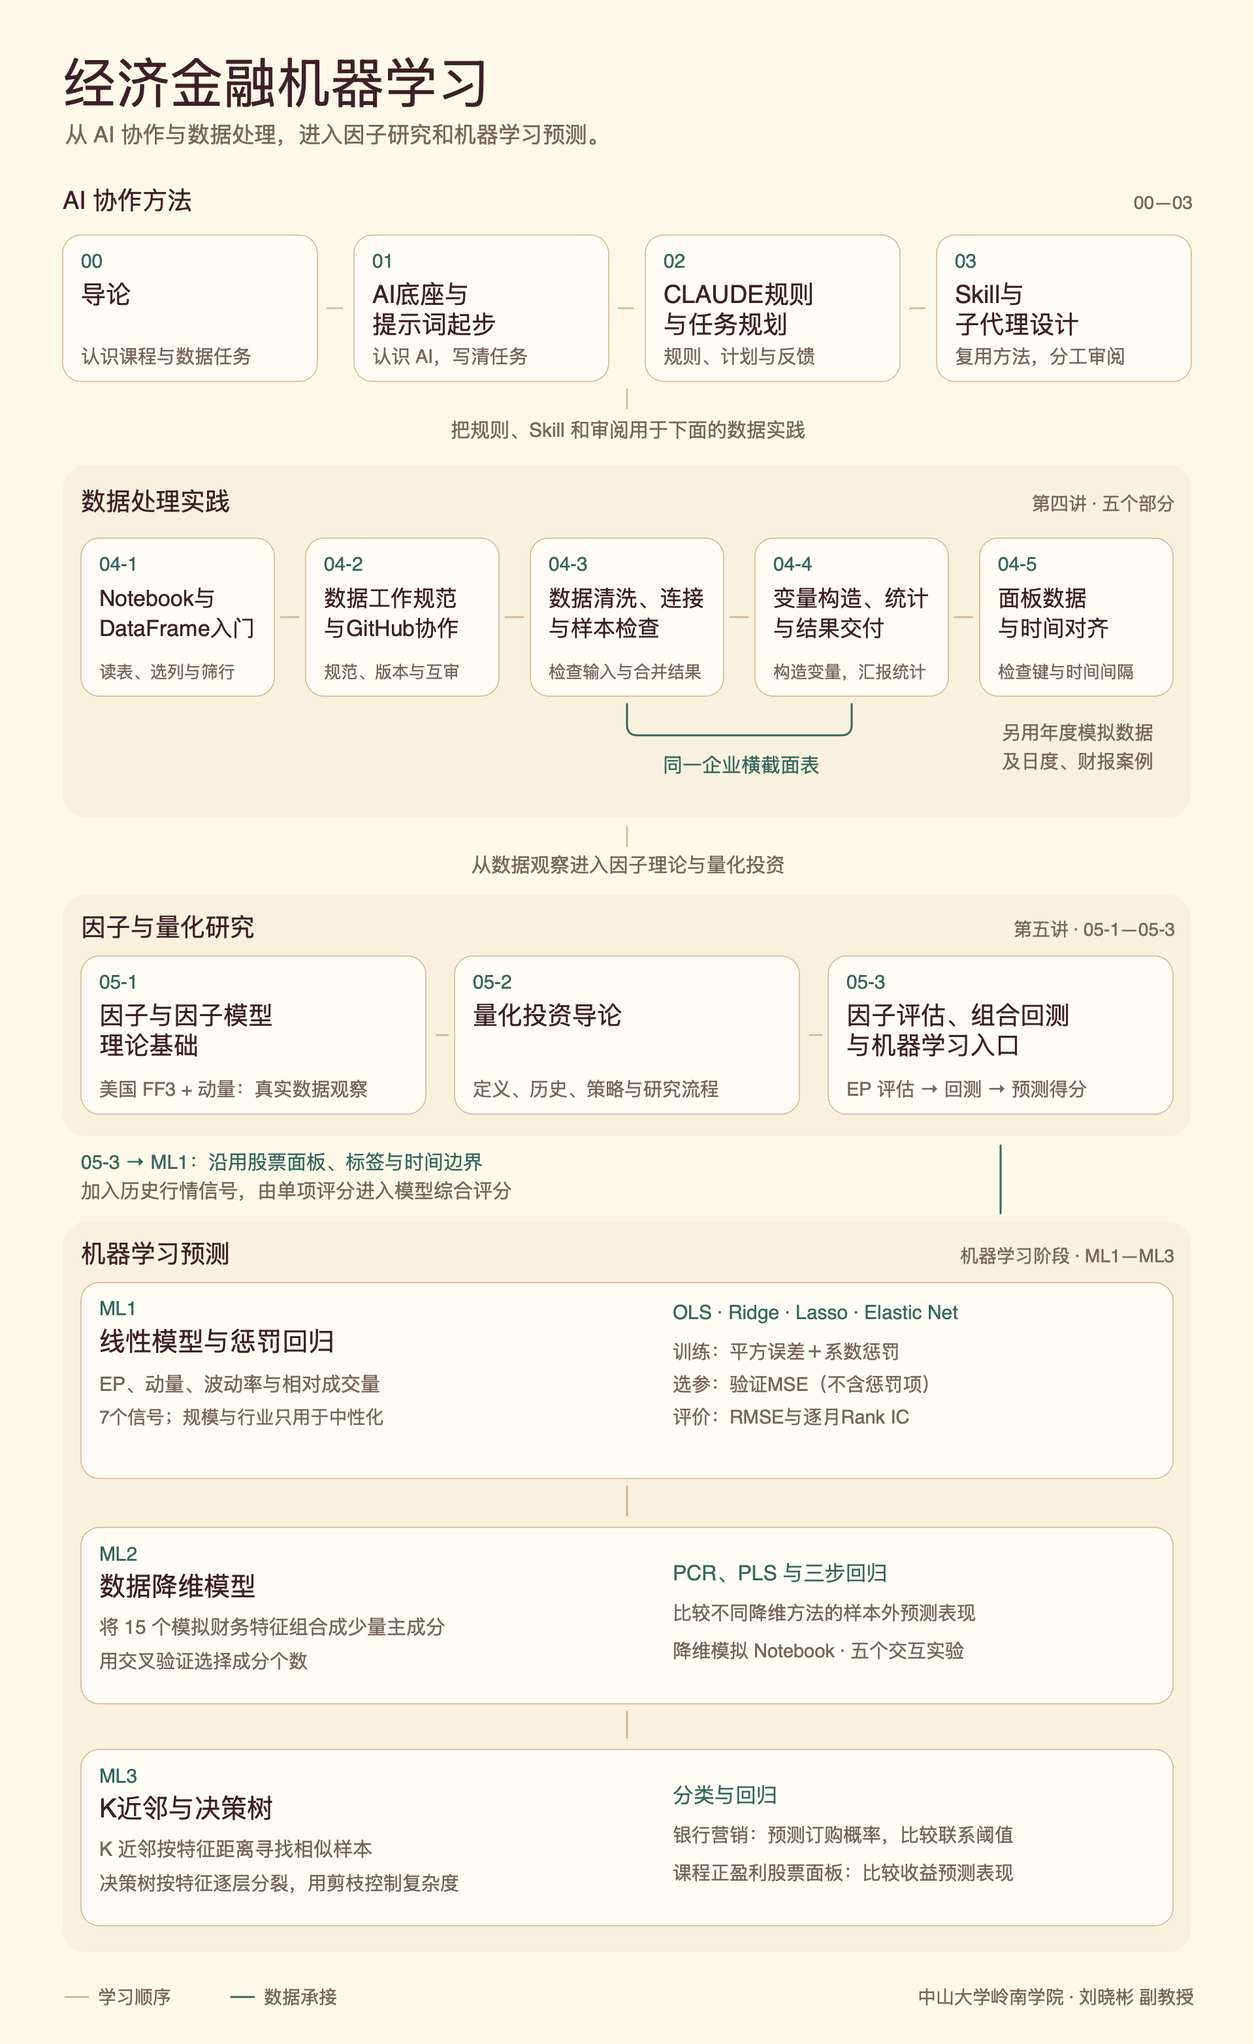
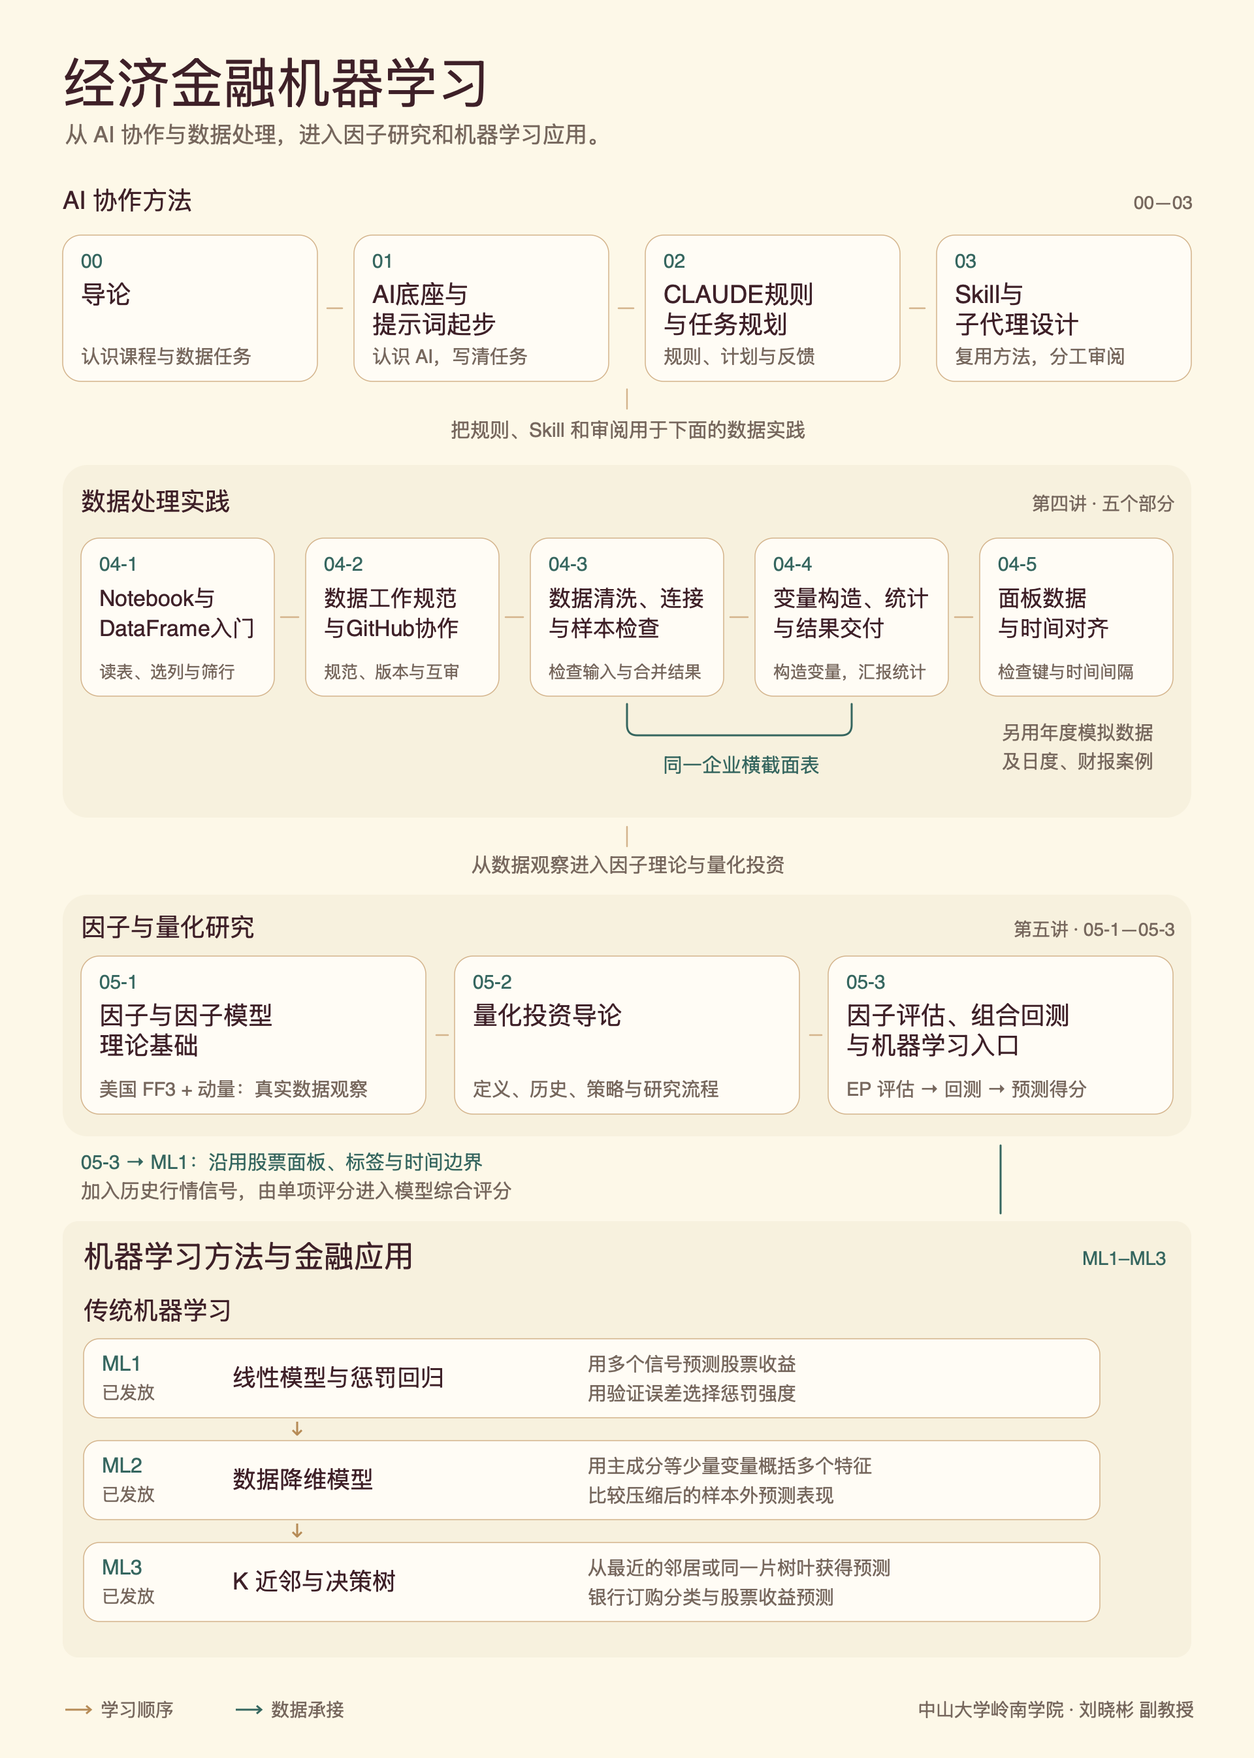
📝 docs(course): show published topics through ML3 on the course map

diff --git a/index.html b/index.html
@@ -1,1 +1,1 @@
-<!doctype html><html lang="zh-CN"><head><meta charset="utf-8"><meta name="viewport" content="width=device-width,initial-scale=1"><title>经济金融机器学习 · 课件</title><style>body{margin:0;background:#FDF8E8;color:#3E2028;font:20px/1.8 "PingFang SC","Microsoft YaHei",system-ui,sans-serif}main{max-width:1000px;margin:auto;padding:36px 28px 64px}h1{font:38px/1.35 "Songti SC",serif}h2{font-size:27px;margin-top:32px}a{color:#35665F;text-underline-offset:4px;overflow-wrap:anywhere}section,footer{border-top:1px solid #D4B48C;padding:18px 0}li{margin:12px 0}small{color:#76675D}figure{margin:24px 0}figure img{display:block;width:100%;height:auto}figcaption{font-size:16px;color:#76675D}@media(max-width:600px){h1{font-size:30px}main{padding:24px 20px 40px}}</style></head><body><main><h1>经济金融机器学习</h1><p>中山大学岭南学院 · 刘晓彬 副教授</p><figure><a href="assets/course-map-ml3-b09519e4.png"><img src="assets/course-map-ml3-b09519e4.png" alt="课件关系图：15 份课件，机器学习部分从线性模型、数据降维延伸到 K 近邻与决策树"></a><figcaption>ML1 承接第五讲的股票面板，ML2 用模拟财务特征比较降维方法。ML3 用银行营销记录讲分类，用课程股票面板讲收益预测。金色箭头表示学习顺序，青绿连线表示数据承接。点击图片查看大图。</figcaption></figure><section><h2><a href="00-导论.html">00-导论</a></h2><small>62 页</small></section><section><h2><a href="01-AI底座与提示词起步.html">01-AI底座与提示词起步</a></h2><small>102 页</small></section><section><h2><a href="02-CLAUDE规则与任务规划.html">02-CLAUDE规则与任务规划</a></h2><small>68 页</small></section><section><h2><a href="03-Skill与子代理设计.html">03-Skill与子代理设计</a></h2><small>47 页</small></section><section><h2><a href="04-1-Notebook与DataFrame入门.html">04-1-Notebook与DataFrame入门</a></h2><small>35 页</small></section><section><h2><a href="04-2-数据工作规范与GitHub协作.html">04-2-数据工作规范与GitHub协作</a></h2><small>38 页</small></section><section><h2><a href="04-3-数据清洗连接与样本检查.html">04-3-数据清洗连接与样本检查</a></h2><small>43 页</small></section><section><h2><a href="04-4-变量构造统计与结果交付.html">04-4-变量构造统计与结果交付</a></h2><small>36 页</small></section><section><h2><a href="04-5-面板数据与时间对齐.html">04-5-面板数据与时间对齐</a></h2><small>33 页</small></section><section><h2><a href="05-1-因子与因子模型理论基础.html">05-1-因子与因子模型理论基础</a></h2><small>96 页</small></section><section><h2><a href="05-2-量化投资导论.html">05-2-量化投资导论</a></h2><small>103 页</small></section><section><h2><a href="05-3-因子评估组合回测与机器学习入口.html">05-3-因子评估、组合回测与机器学习入口</a></h2><small>156 页</small><p>以EP为主案例，从因子评估、组合回测衔接机器学习预测得分；配套Notebook与代码见下方不含数据包。</p></section><section><h2><a href="ML1-线性模型与惩罚回归.html">ML1-线性模型与惩罚回归</a></h2><small>70 页</small><p>从EP评分到7信号综合预测，比较OLS与三类惩罚回归，区分训练损失、验证MSE和Rank IC。</p></section><section><h2><a href="ML2-数据降维模型.html">ML2-数据降维模型</a></h2><small>52 页</small><p>通过几何投影和财务特征模拟，比较不同降维方法的收益预测表现。</p></section><section><h2><a href="ML3-K近邻与决策树.html">ML3-K近邻与决策树</a></h2><small>76 页</small><p>从近邻和树叶中的样本得到预测，再用银行营销案例选择联系名单，用股票案例比较收益预测表现。</p></section><section id="materials"><h2>配套材料</h2><div id="materials-04-3"><h3>04-3 数据清洗、连接与样本检查</h3><p><a href="04-3-数据清洗连接与样本检查-配套材料-含参考答案.zip" download>下载学生材料 ZIP（含参考答案）</a></p><p>解压后打开“04-3-参考答案”文件夹，按 README 选择课程内核，运行“04-3-清洗与连接.ipynb”。数据字典、处理原则、课堂任务和交付说明均在包内；Notebook末尾附参考解答。</p></div><div id="materials-04-4"><h3>04-4 变量构造、统计与结果交付</h3><p><a href="04-4-变量构造统计与结果交付-配套材料-含参考答案.zip" download>下载精简材料 ZIP（含参考答案）</a> · <a href="04-4-变量构造统计与结果交付-交互演示.html">打开统计交互网页</a></p><p>解压后从 README 开始，顺序运行 Notebook；统计网页可离线使用。</p></div><div id="materials-04-5"><h3>04-5 面板数据与时间对齐</h3><p><a href="04-5-面板数据与时间对齐-配套材料-含参考答案.zip" download>下载配套包（含参考答案）</a> · <a href="04-5-面板数据与时间对齐-交互演示.html">面板交互网页</a></p><p>解压后按README运行Notebook；网页可离线打开。</p></div><div id="materials-05-1"><h3>05-1 因子与因子模型理论基础</h3><p><a href="05-1-因子与因子模型理论基础-配套材料.zip" download>下载四因子观察学生材料 ZIP</a></p><p>解压后打开“05-1-课堂材料”，按 README 运行“05-1-四因子观察.ipynb”。包内提供美国 FF3 与动量月度数据（1927-01—2026-08）、官方原始文件、数据字典和合并脚本，用于观察时间轨迹、分布与相关性。</p></div><div id="materials-05-2"><h3>05-2 量化投资导论</h3><p><a href="05-2-量化投资导论-配套材料-不含数据.zip" download>下载配套材料 ZIP（不含数据，约1.18 MB）</a></p><p>解压后打开“05-2-量化投资导论”，按 README 将教师另行提供的六张精简数据表（约54.7 MB）放入 data/offline/，再运行 notebooks/ch01_market_overview.ipynb。包内保留原Notebook、工具代码、图表与数据说明。</p></div><div id="materials-05-3"><h3>05-3 因子评估、组合回测与机器学习入口</h3><p><a href="05-3-因子评估组合回测与机器学习入口-配套材料-不含数据.zip" download>下载配套材料 ZIP（不含数据，约103 KB）</a> · <a href="05-3-因子评估组合回测与机器学习入口-交互演示.html">打开因子评估交互演示</a></p><p>解压后打开“05-03-课堂材料”，按README合并教师另行提供的数据包，确认输入文件位于 data/offline/，再运行 notebooks/05-03-EP因子评估与回测.ipynb。包内含Notebook、工具代码、示范图表、统计汇总和任务说明，不含原始/月度输入数据与教师答案。</p><p>交互页内嵌统计汇总与教学示例，可离线查看EP覆盖率、中性化、IC/ICIR、衰减和分组回测方法，无需另行加载月度数据包。</p></div><div id="materials-ml1"><h3>ML1 线性模型与惩罚回归</h3><p><a href="ML1-线性模型与惩罚回归-配套材料-不含数据.zip" download>下载配套材料 ZIP（不含数据）</a> · <a href="ML1-线性模型与惩罚回归-交互演示.html">打开交互演示</a></p><p>包内含Notebook、课堂输出、图表、统计汇总与说明。运行前将教师提供的课堂数据包合并到“ML1-课堂材料”，确认 data/ep_ml1_panel.parquet 存在；全量逐股预测在运行后生成。交互页可离线查看机制模拟和有限股票示例。</p></div><div id="materials-ml2"><h3>ML2 数据降维模型</h3><p><a href="ML2-数据降维模型-配套材料.zip" download>下载降维模拟 Notebook 与运行说明</a> · <a href="ML2-数据降维模型-交互演示.html">打开五个交互实验</a></p><p>模拟数据由 Notebook 生成，解压后按 README 从第一个单元顺序运行。</p></div><div id="materials-ml3"><h3>ML3 K 近邻与决策树</h3><p><a href="ML3-K近邻与决策树-配套材料-不含股票面板.zip" download>下载课堂材料（含银行数据）</a> · <a href="ML3-K近邻与决策树-交互演示.html">打开交互演示</a></p><p>解压后从 README 进入 Notebook。运行股票案例时，将教师提供的 ep_ml_panel.parquet 放入 data/。课件和交互演示可直接离线阅读。</p></div><p>05-2《量化投资导论》共 103 页，介绍量化投资的定义、发展历史、策略、A 股市场环境、行业版图、研究流程及案例，配套材料见上方下载入口。署名：刘晓彬（中山大学岭南学院）、曾涛（浙江大学）。其他部分的学生材料由教师另行提供。</p></section><footer>© 2026 刘晓彬 · <a href="许可协议.html">中文许可说明</a> · <a href="LICENSE">LICENSE 全文</a></footer></main></body></html>
+<!doctype html><html lang="zh-CN"><head><meta charset="utf-8"><meta name="viewport" content="width=device-width,initial-scale=1"><title>经济金融机器学习 · 课件</title><style>body{margin:0;background:#FDF8E8;color:#3E2028;font:20px/1.8 "PingFang SC","Microsoft YaHei",system-ui,sans-serif}main{max-width:1000px;margin:auto;padding:36px 28px 64px}h1{font:38px/1.35 "Songti SC",serif}h2{font-size:27px;margin-top:32px}a{color:#35665F;text-underline-offset:4px;overflow-wrap:anywhere}section,footer{border-top:1px solid #D4B48C;padding:18px 0}li{margin:12px 0}small{color:#76675D}figure{margin:24px 0}figure img{display:block;width:100%;height:auto}figcaption{font-size:16px;color:#76675D}@media(max-width:600px){h1{font-size:30px}main{padding:24px 20px 40px}}</style></head><body><main><h1>经济金融机器学习</h1><p>中山大学岭南学院 · 刘晓彬 副教授</p><figure><a href="assets/course-map-ml3-8a44f559.png"><img src="assets/course-map-ml3-8a44f559.png" alt="课程结构图，机器学习部分依次为线性模型与惩罚回归、数据降维模型、K 近邻与决策树"></a><figcaption>机器学习部分已发放 ML1–ML3。 点击图片查看大图。</figcaption></figure><section><h2><a href="00-导论.html">00-导论</a></h2><small>62 页</small></section><section><h2><a href="01-AI底座与提示词起步.html">01-AI底座与提示词起步</a></h2><small>102 页</small></section><section><h2><a href="02-CLAUDE规则与任务规划.html">02-CLAUDE规则与任务规划</a></h2><small>68 页</small></section><section><h2><a href="03-Skill与子代理设计.html">03-Skill与子代理设计</a></h2><small>47 页</small></section><section><h2><a href="04-1-Notebook与DataFrame入门.html">04-1-Notebook与DataFrame入门</a></h2><small>35 页</small></section><section><h2><a href="04-2-数据工作规范与GitHub协作.html">04-2-数据工作规范与GitHub协作</a></h2><small>38 页</small></section><section><h2><a href="04-3-数据清洗连接与样本检查.html">04-3-数据清洗连接与样本检查</a></h2><small>43 页</small></section><section><h2><a href="04-4-变量构造统计与结果交付.html">04-4-变量构造统计与结果交付</a></h2><small>36 页</small></section><section><h2><a href="04-5-面板数据与时间对齐.html">04-5-面板数据与时间对齐</a></h2><small>33 页</small></section><section><h2><a href="05-1-因子与因子模型理论基础.html">05-1-因子与因子模型理论基础</a></h2><small>96 页</small></section><section><h2><a href="05-2-量化投资导论.html">05-2-量化投资导论</a></h2><small>103 页</small></section><section><h2><a href="05-3-因子评估组合回测与机器学习入口.html">05-3-因子评估、组合回测与机器学习入口</a></h2><small>156 页</small><p>以EP为主案例，从因子评估、组合回测衔接机器学习预测得分；配套Notebook与代码见下方不含数据包。</p></section><section><h2><a href="ML1-线性模型与惩罚回归.html">ML1-线性模型与惩罚回归</a></h2><small>70 页</small><p>从EP评分到7信号综合预测，比较OLS与三类惩罚回归，区分训练损失、验证MSE和Rank IC。</p></section><section><h2><a href="ML2-数据降维模型.html">ML2-数据降维模型</a></h2><small>52 页</small><p>通过几何投影和财务特征模拟，比较不同降维方法的收益预测表现。</p></section><section><h2><a href="ML3-K近邻与决策树.html">ML3-K近邻与决策树</a></h2><small>76 页</small><p>从近邻和树叶中的样本得到预测，再用银行营销案例选择联系名单，用股票案例比较收益预测表现。</p></section><section id="materials"><h2>配套材料</h2><div id="materials-04-3"><h3>04-3 数据清洗、连接与样本检查</h3><p><a href="04-3-数据清洗连接与样本检查-配套材料-含参考答案.zip" download>下载学生材料 ZIP（含参考答案）</a></p><p>解压后打开“04-3-参考答案”文件夹，按 README 选择课程内核，运行“04-3-清洗与连接.ipynb”。数据字典、处理原则、课堂任务和交付说明均在包内；Notebook末尾附参考解答。</p></div><div id="materials-04-4"><h3>04-4 变量构造、统计与结果交付</h3><p><a href="04-4-变量构造统计与结果交付-配套材料-含参考答案.zip" download>下载精简材料 ZIP（含参考答案）</a> · <a href="04-4-变量构造统计与结果交付-交互演示.html">打开统计交互网页</a></p><p>解压后从 README 开始，顺序运行 Notebook；统计网页可离线使用。</p></div><div id="materials-04-5"><h3>04-5 面板数据与时间对齐</h3><p><a href="04-5-面板数据与时间对齐-配套材料-含参考答案.zip" download>下载配套包（含参考答案）</a> · <a href="04-5-面板数据与时间对齐-交互演示.html">面板交互网页</a></p><p>解压后按README运行Notebook；网页可离线打开。</p></div><div id="materials-05-1"><h3>05-1 因子与因子模型理论基础</h3><p><a href="05-1-因子与因子模型理论基础-配套材料.zip" download>下载四因子观察学生材料 ZIP</a></p><p>解压后打开“05-1-课堂材料”，按 README 运行“05-1-四因子观察.ipynb”。包内提供美国 FF3 与动量月度数据（1927-01—2026-08）、官方原始文件、数据字典和合并脚本，用于观察时间轨迹、分布与相关性。</p></div><div id="materials-05-2"><h3>05-2 量化投资导论</h3><p><a href="05-2-量化投资导论-配套材料-不含数据.zip" download>下载配套材料 ZIP（不含数据，约1.18 MB）</a></p><p>解压后打开“05-2-量化投资导论”，按 README 将教师另行提供的六张精简数据表（约54.7 MB）放入 data/offline/，再运行 notebooks/ch01_market_overview.ipynb。包内保留原Notebook、工具代码、图表与数据说明。</p></div><div id="materials-05-3"><h3>05-3 因子评估、组合回测与机器学习入口</h3><p><a href="05-3-因子评估组合回测与机器学习入口-配套材料-不含数据.zip" download>下载配套材料 ZIP（不含数据，约103 KB）</a> · <a href="05-3-因子评估组合回测与机器学习入口-交互演示.html">打开因子评估交互演示</a></p><p>解压后打开“05-03-课堂材料”，按README合并教师另行提供的数据包，确认输入文件位于 data/offline/，再运行 notebooks/05-03-EP因子评估与回测.ipynb。包内含Notebook、工具代码、示范图表、统计汇总和任务说明，不含原始/月度输入数据与教师答案。</p><p>交互页内嵌统计汇总与教学示例，可离线查看EP覆盖率、中性化、IC/ICIR、衰减和分组回测方法，无需另行加载月度数据包。</p></div><div id="materials-ml1"><h3>ML1 线性模型与惩罚回归</h3><p><a href="ML1-线性模型与惩罚回归-配套材料-不含数据.zip" download>下载配套材料 ZIP（不含数据）</a> · <a href="ML1-线性模型与惩罚回归-交互演示.html">打开交互演示</a></p><p>包内含Notebook、课堂输出、图表、统计汇总与说明。运行前将教师提供的课堂数据包合并到“ML1-课堂材料”，确认 data/ep_ml1_panel.parquet 存在；全量逐股预测在运行后生成。交互页可离线查看机制模拟和有限股票示例。</p></div><div id="materials-ml2"><h3>ML2 数据降维模型</h3><p><a href="ML2-数据降维模型-配套材料.zip" download>下载降维模拟 Notebook 与运行说明</a> · <a href="ML2-数据降维模型-交互演示.html">打开五个交互实验</a></p><p>模拟数据由 Notebook 生成，解压后按 README 从第一个单元顺序运行。</p></div><div id="materials-ml3"><h3>ML3 K 近邻与决策树</h3><p><a href="ML3-K近邻与决策树-配套材料-不含股票面板.zip" download>下载课堂材料（含银行数据）</a> · <a href="ML3-K近邻与决策树-交互演示.html">打开交互演示</a></p><p>解压后从 README 进入 Notebook。运行股票案例时，将教师提供的 ep_ml_panel.parquet 放入 data/。课件和交互演示可直接离线阅读。</p></div><p>05-2《量化投资导论》共 103 页，介绍量化投资的定义、发展历史、策略、A 股市场环境、行业版图、研究流程及案例，配套材料见上方下载入口。署名：刘晓彬（中山大学岭南学院）、曾涛（浙江大学）。其他部分的学生材料由教师另行提供。</p></section><footer>© 2026 刘晓彬 · <a href="许可协议.html">中文许可说明</a> · <a href="LICENSE">LICENSE 全文</a></footer></main></body></html>

diff --git a/README.md b/README.md
@@ -2,11 +2,11 @@
 
 中山大学岭南学院 · 刘晓彬 副教授
 
-本目录收录15 份 HTML 课件，按“AI协作方法 → 数据处理实践 → 因子与量化研究 → 机器学习预测”组织。主课程包含00—03、04-1—04-5、05-1—05-3；机器学习阶段包含 ML1、ML2 和 ML3。
+本目录收录 15 份 HTML 课件，按“AI协作方法 → 数据处理实践 → 因子与量化研究 → 机器学习方法与金融应用”组织。主课程包含00—03、04-1—04-5、05-1—05-3；机器学习阶段已发放 ML1、ML2 和 ML3。
 
-[![课件关系图：15 份课件，机器学习部分从线性模型、数据降维延伸到 K 近邻与决策树](assets/course-map-ml3-b09519e4.png)](assets/course-map-ml3-b09519e4.png)
+[![课程结构图，机器学习部分依次为线性模型与惩罚回归、数据降维模型、K 近邻与决策树](assets/course-map-ml3-8a44f559.png)](assets/course-map-ml3-8a44f559.png)
 
-[查看矢量关系图](assets/course-map-ml3-b09519e4.svg)
+[查看矢量关系图](assets/course-map-ml3-8a44f559.svg)
 
 金色箭头表示学习顺序，青绿连线表示数据承接。第五讲05-3用EP评价股票排序；ML1沿用股票面板、收益标签和时间边界，加入动量、波动率与相对成交量，学习综合预测评分。规模与行业仅用于信号中性化。ML2 用模拟财务特征提取主成分，并比较降维方法的样本外预测表现。ML3 继续学习 K 近邻和决策树，用银行营销记录讲分类与联系阈值，用课程股票面板讲收益预测。
 
